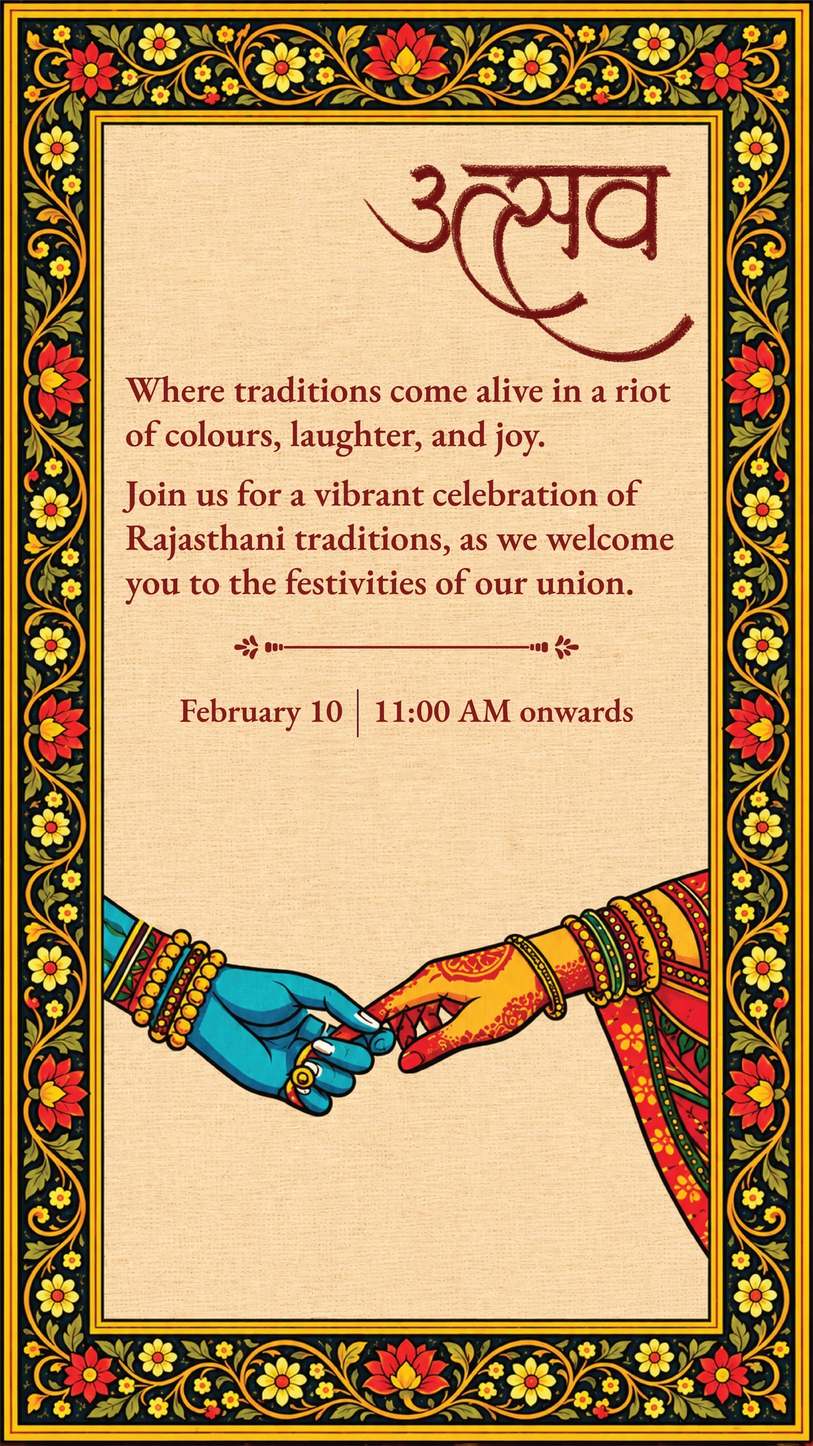
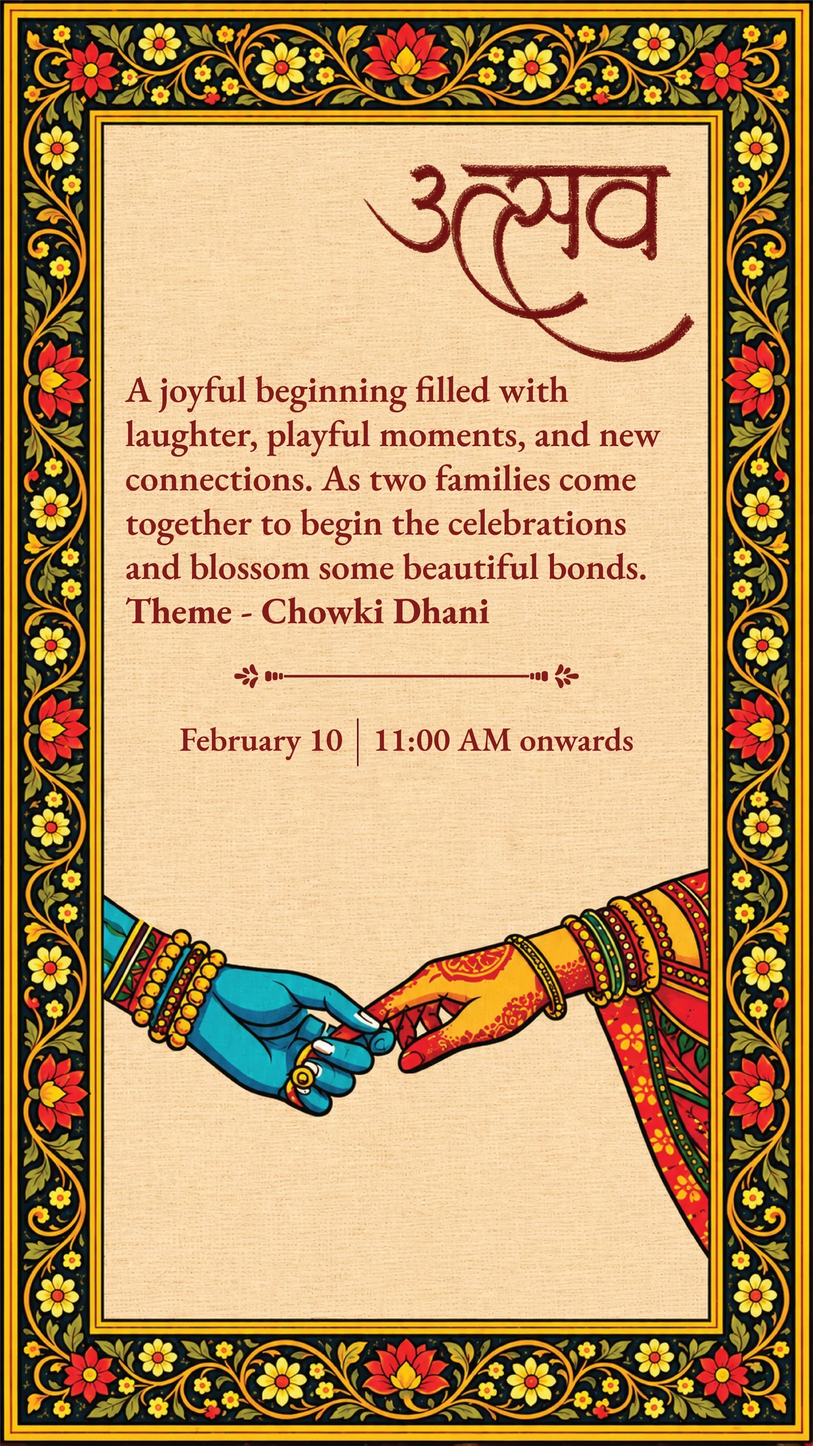
Update pages 1-3 (Sanskrit mantra, Utsav and Mayra text); bump image version
Claude-Session: https://claude.ai/code/session_01NWMq9HgDbfLBKdrV4t5sHr

Changed region(s): [[0.1542, 0.2475, 0.8325, 0.526]]

diff --git a/index.html b/index.html
@@ -100,7 +100,7 @@ var EVENT = {
 };
 
 // Bump this number whenever you replace the images, so phones fetch the new ones.
-var IMG_VERSION = 3;
+var IMG_VERSION = 4;
 
 // The pages, in order (one 9:16 image each).
 var pages = [
